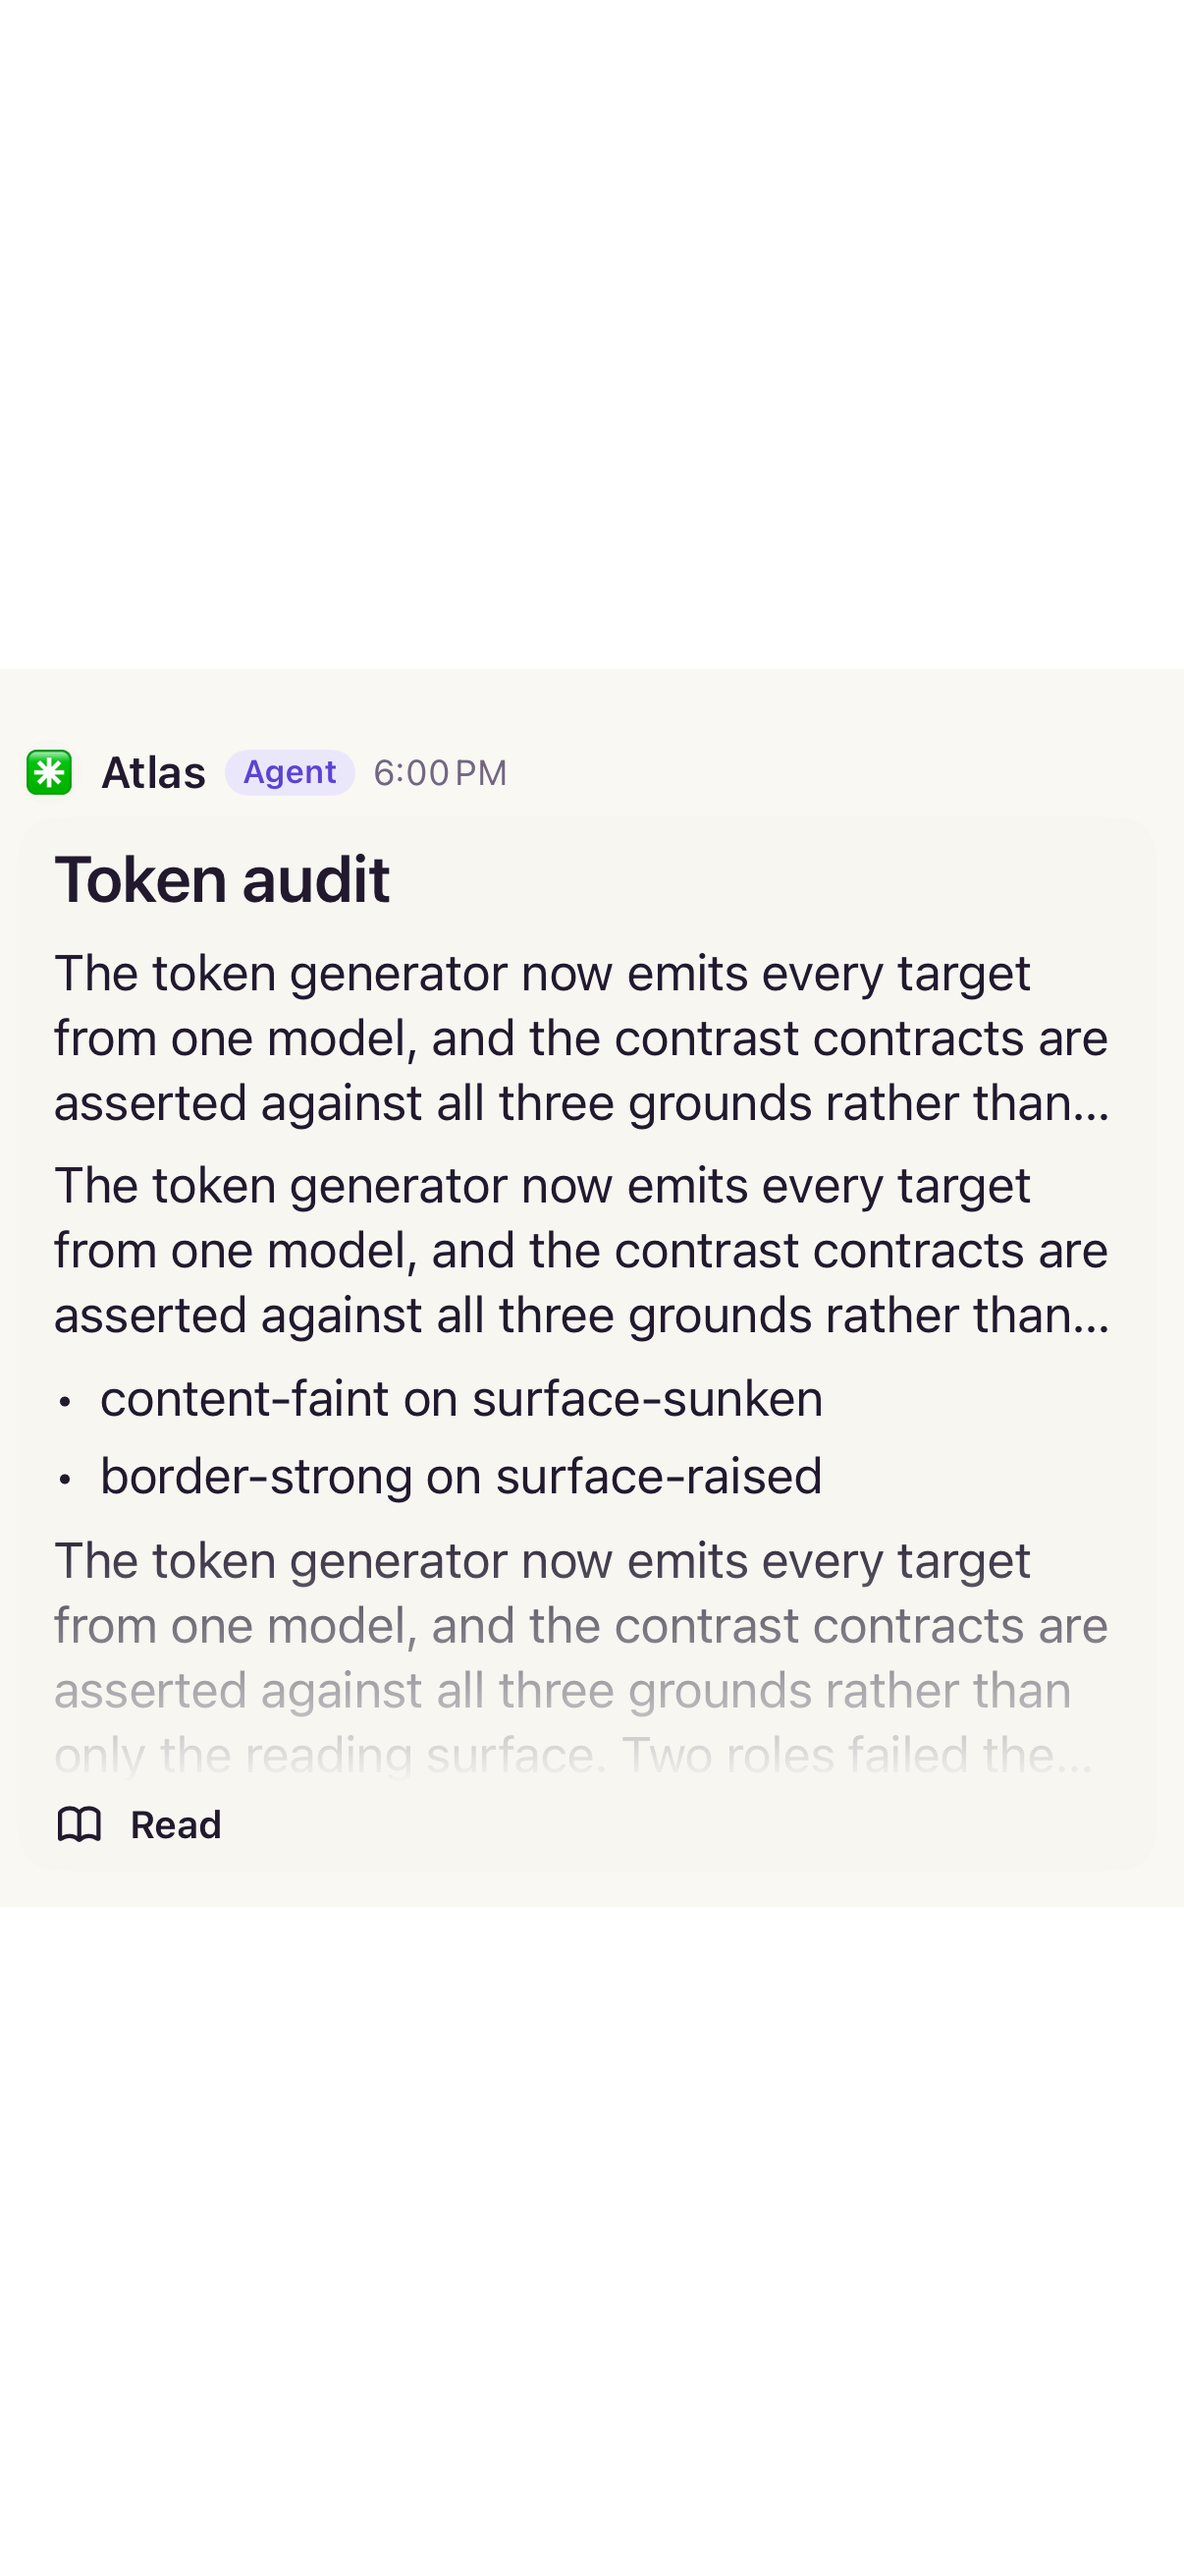
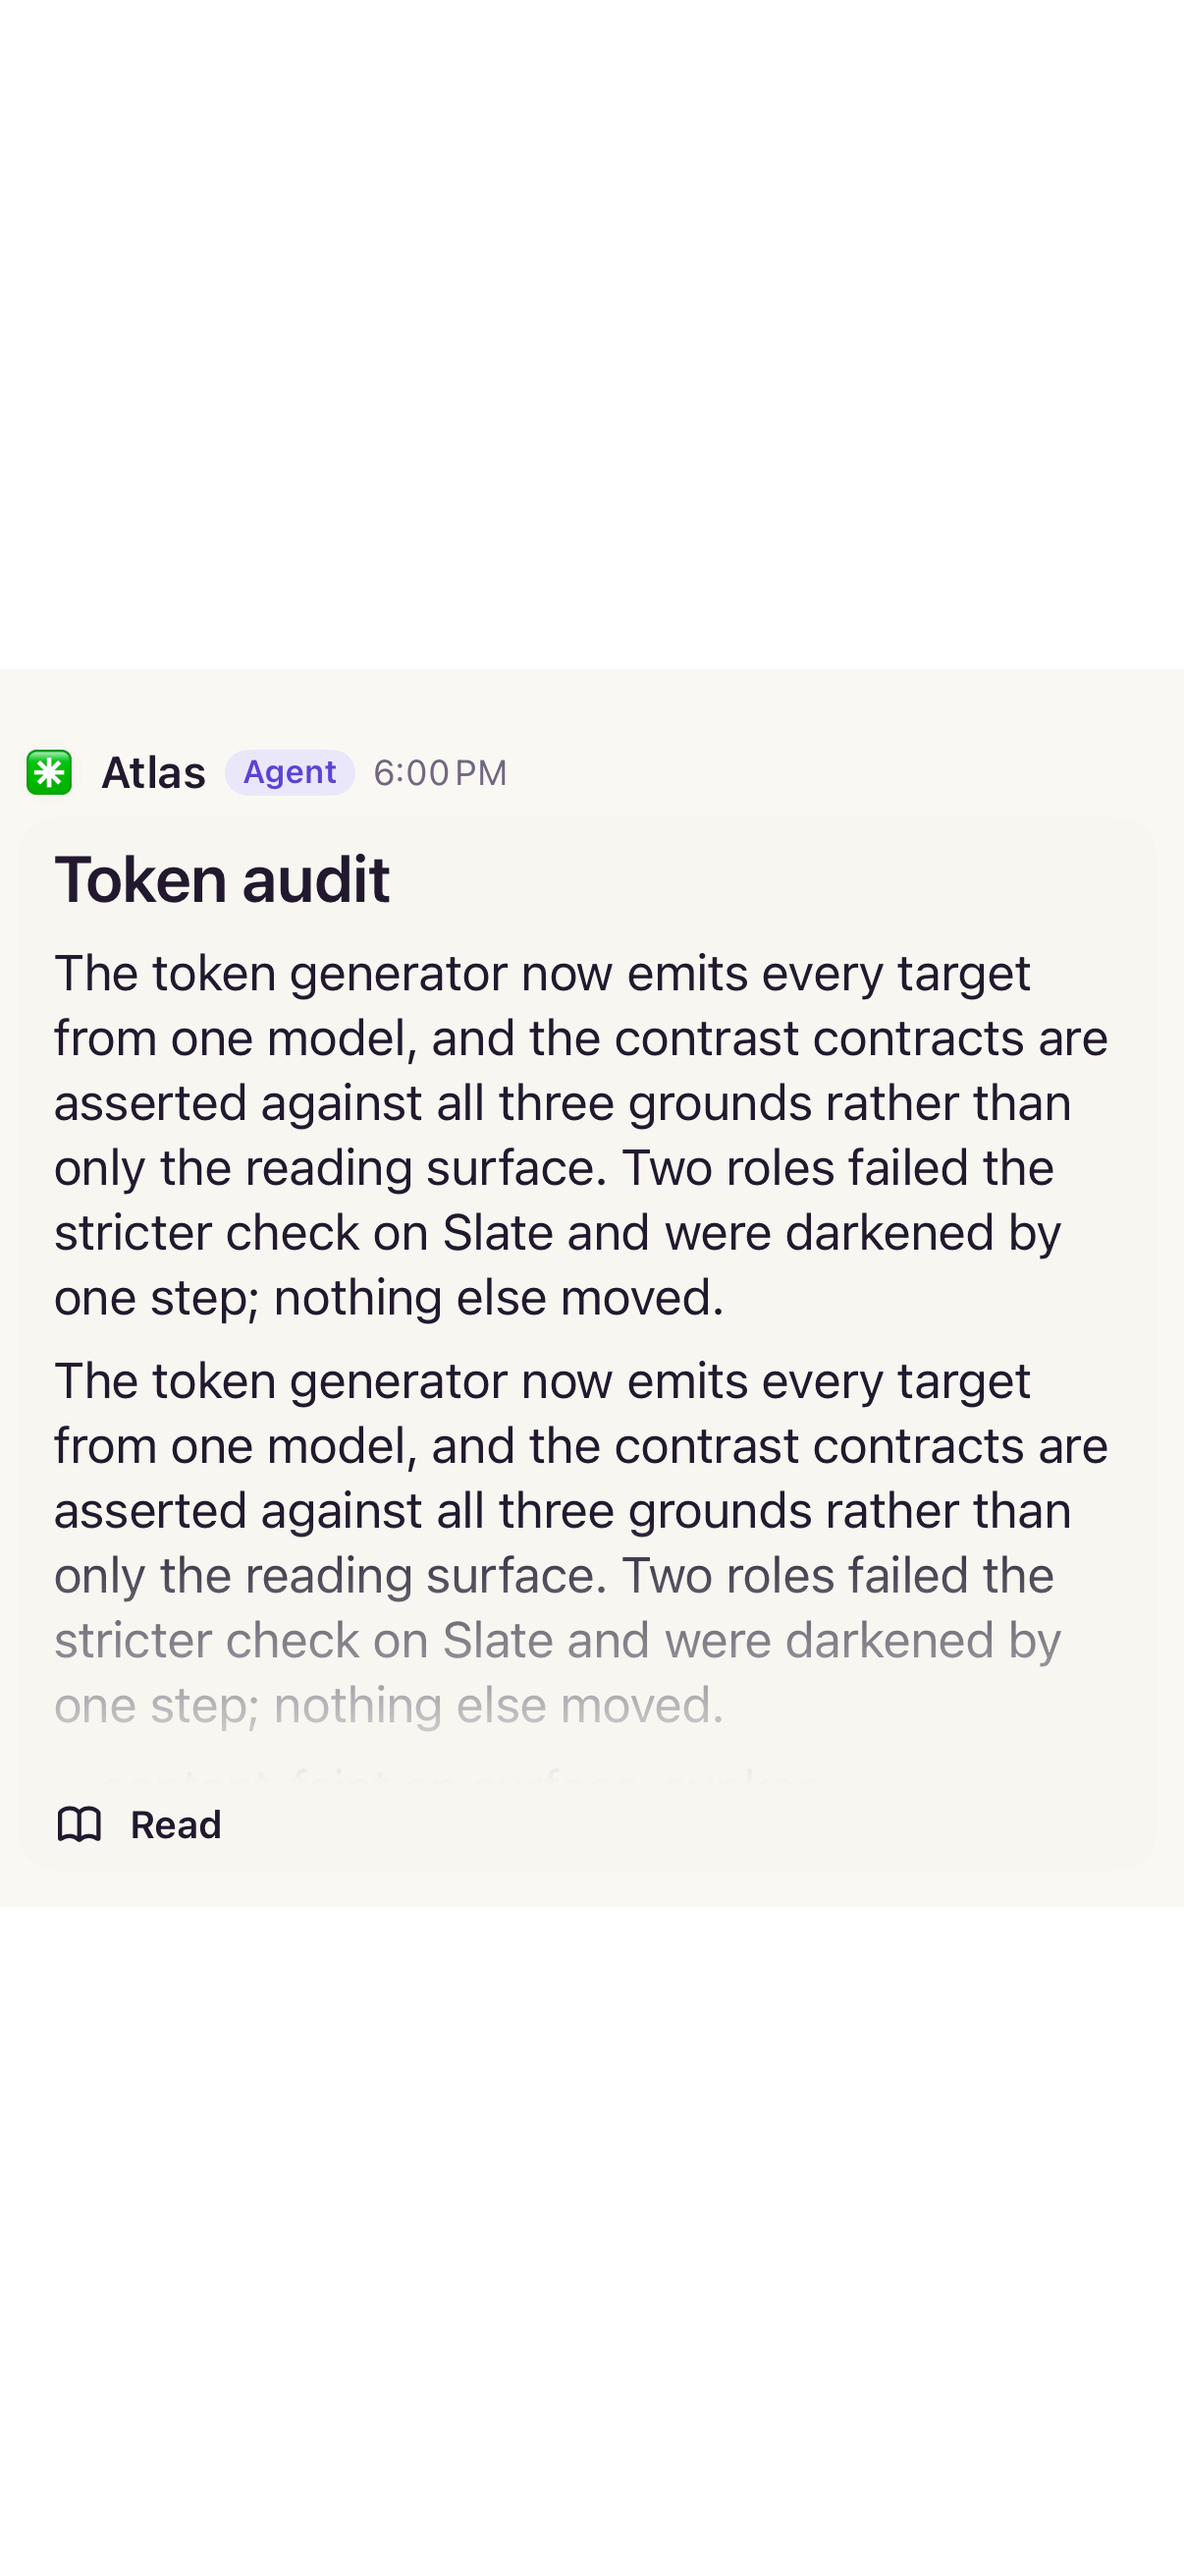
Long message card: clip the report, don't squeeze each paragraph
The card capped the text with .frame(maxHeight: 320), which offers the text
320pt, so every paragraph shrank to fit and truncated to a line or two
with an ellipsis (seen on a Hermes agent's long reply). fixedSize first
lays the text out at full height; the frame then clips it and the fade
leads into Read. The old baseline had recorded the truncation.

Claude-Session: https://claude.ai/code/session_01VFjhMGLV2c1Va1fyhrHTh2

Changed region(s): [[0.0307, 0.4325, 0.9204, 0.6796]]

diff --git a/apple/Supermessage/Timeline/TimelineRowView.swift b/apple/Supermessage/Timeline/TimelineRowView.swift
@@ -316,7 +316,14 @@ private struct MessageBlock: View {
                 // of it is one tap away, set for reading. A 4,000-word report
                 // drawn in full in the timeline is a room nobody can scroll
                 // past.
+                //
+                // `fixedSize` first: the text lays out at its full height and
+                // the frame then *cuts* it. Without it the 320pt frame was a
+                // height offer, and every paragraph shrank to fit it — each
+                // one truncated to a line or two with "…", which read as a
+                // broken message rather than the opening of a long one.
                 text
+                    .fixedSize(horizontal: false, vertical: true)
                     .frame(maxHeight: 320, alignment: .top)
                     .clipped()
                     .mask {
